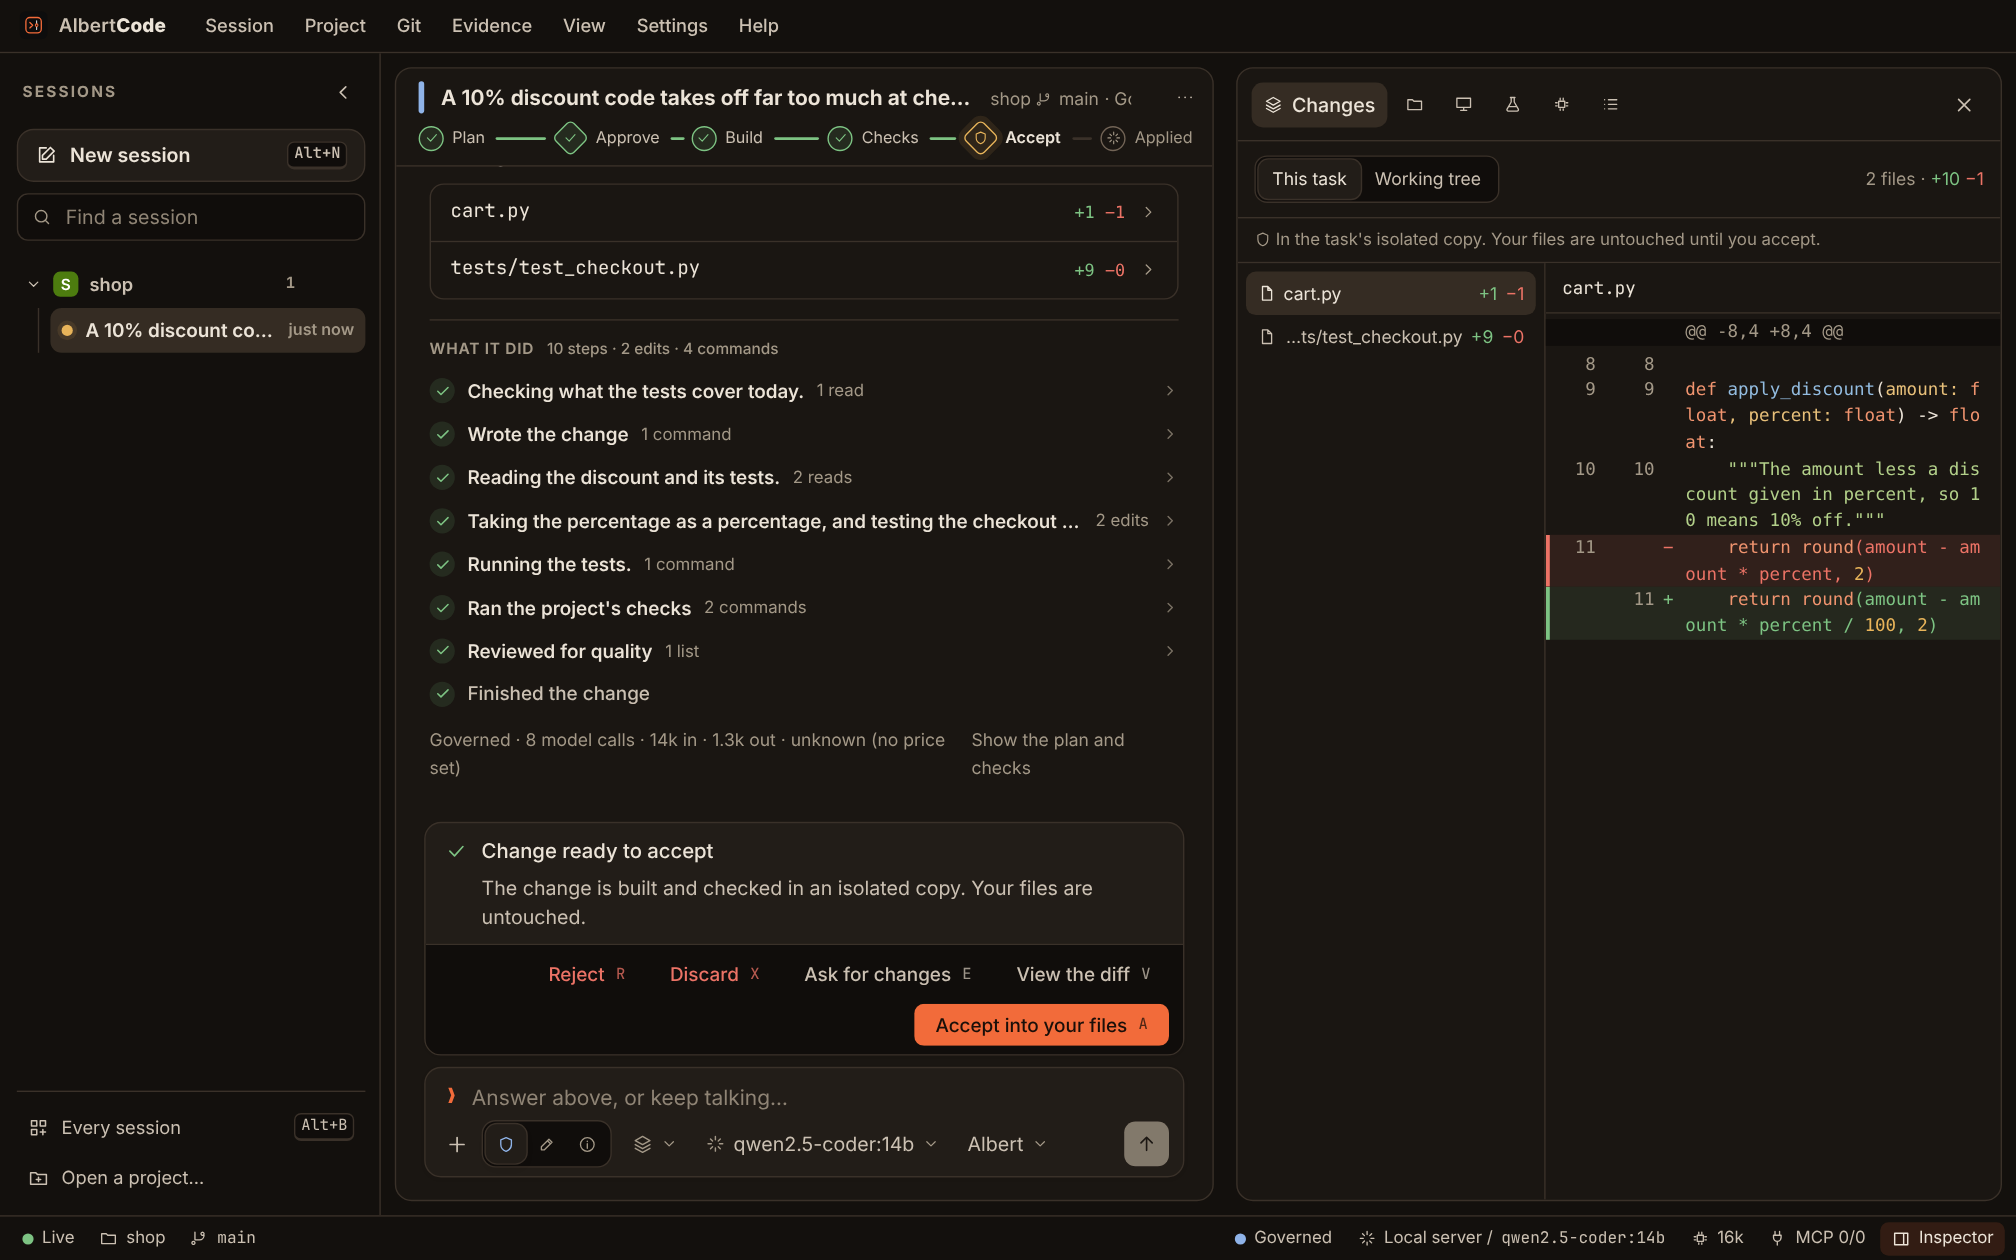
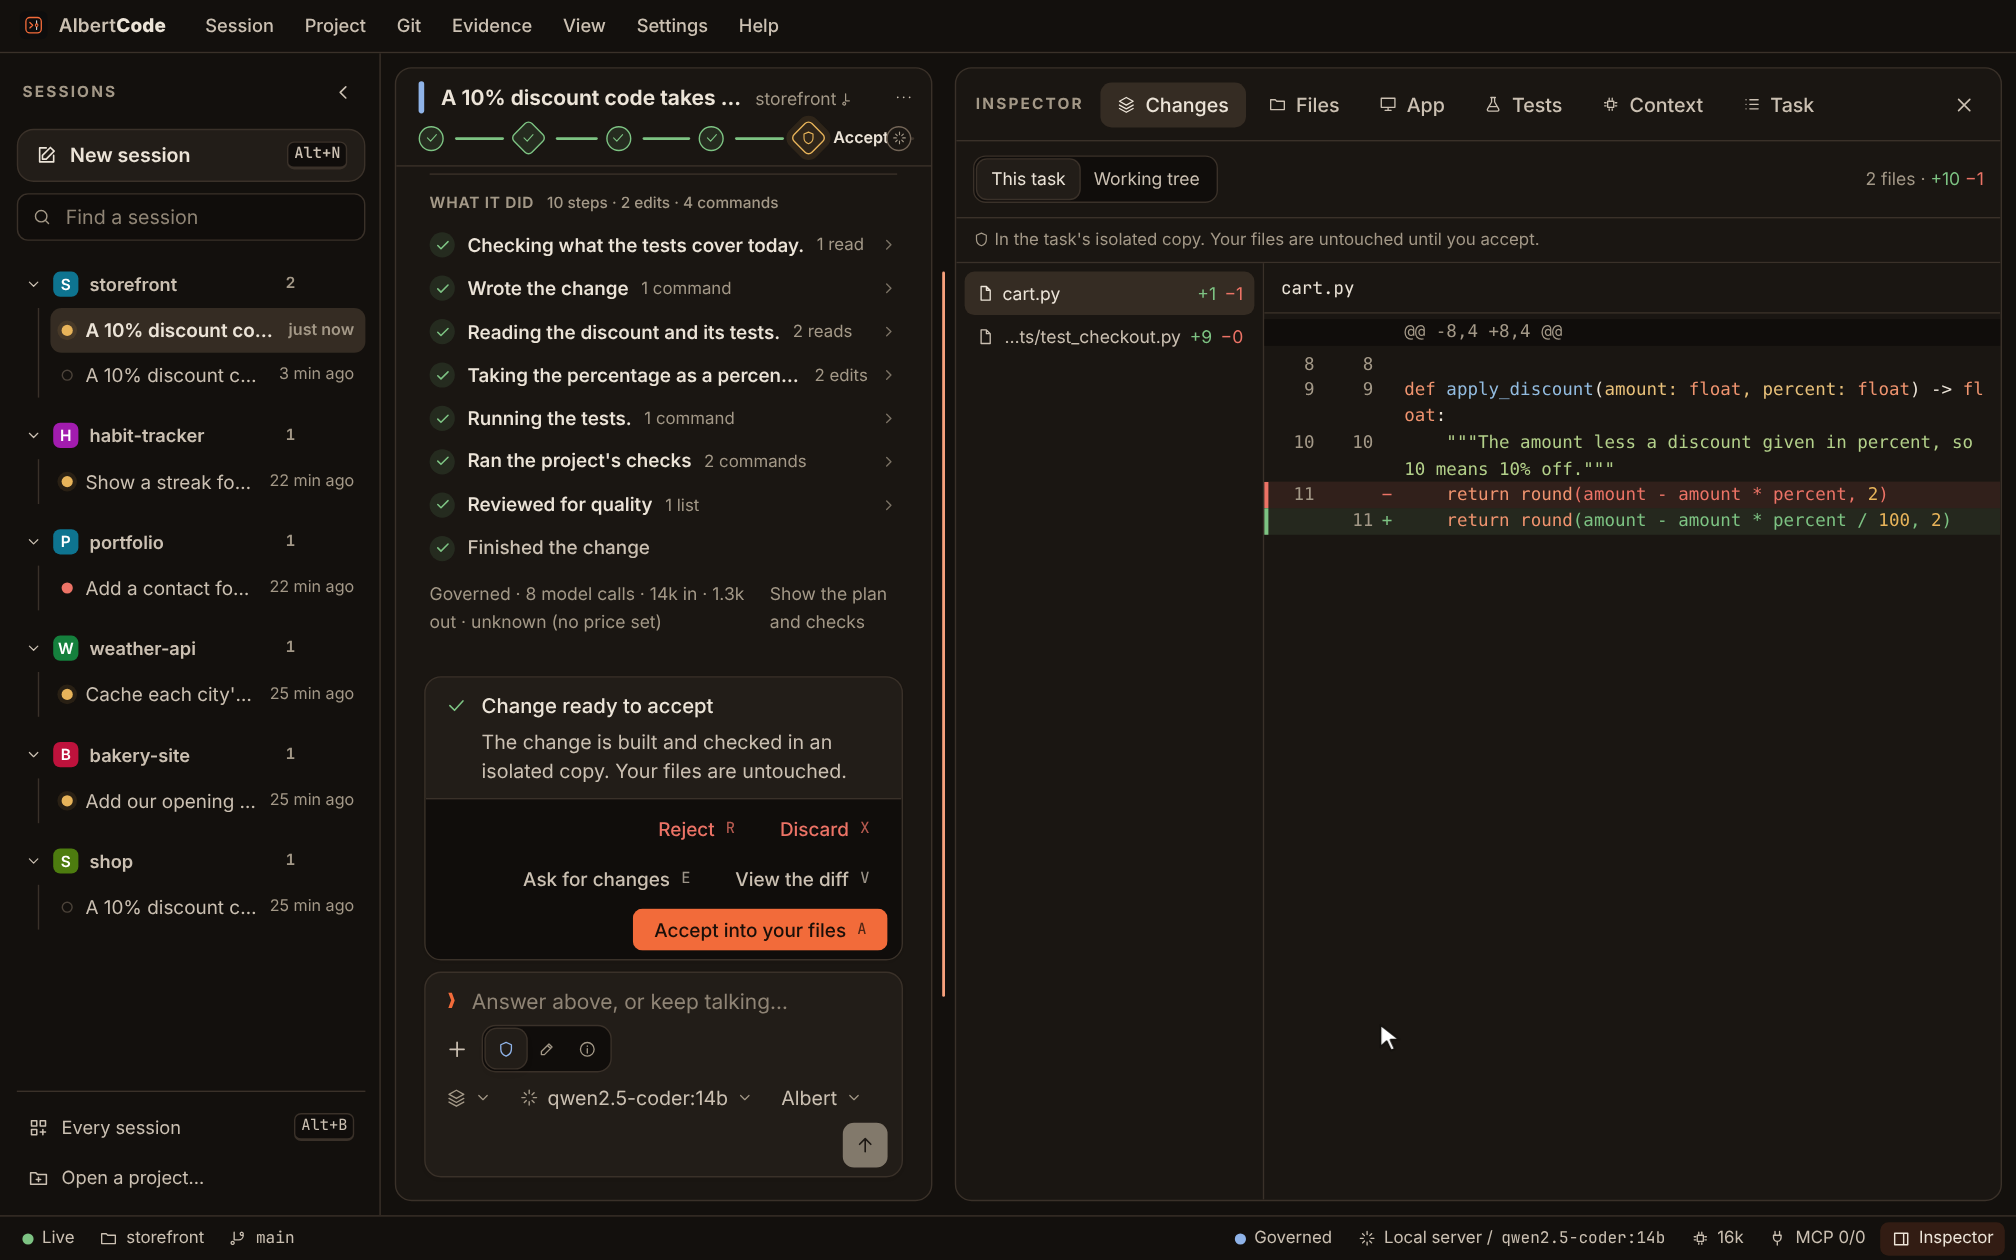
README: watch it work in the browser and the terminal, the agent at work, a wider diff
- Two recordings lead See it in action: a change made in the browser workspace, and the same in
  the terminal, from the request to the accepted change, in the Ember theme. They replace the old
  terminal walkthrough.
- The terminal row shows the agent at work, each step as it happens.
- The diff is retaken wider, with the new test and the fix side by side.
- No picture of the architecture dialog.

diff --git a/README.md b/README.md
@@ -280,6 +280,18 @@ One workspace, several projects, each at a different step: a plan waiting for yo
 finished change with its evidence, and the same tasks in the terminal. Every screen is from AlbertCode itself;
 the model's answers were scripted for these pictures.
 
+**Watch it work, in the browser**
+
+<img src="assets/demo/albertcode-browser.gif" alt="A recording of the browser workspace: a request to fix a discount bug is typed, AlbertCode reads the project and proposes a plan, the plan is approved, the agent builds and tests the change step by step in an isolated copy, the diff of cart.py and the new test is opened, and the change is accepted into the files." width="100%">
+
+<sub>Request, plan, build and test in an isolated copy, read the diff, accept. A little faster than life.</sub>
+
+**And in the terminal**
+
+<img src="assets/demo/albertcode-terminal.gif" alt="A recording of the terminal interface: the request is typed, the plan appears and is approved with one key, the agent works through its steps while the terminal shows each one, the change is ready with its test runs and reviews, its diff is read, and it is applied." width="100%">
+
+<sub>The same gates from the keyboard: approve, watch it work, read the diff, apply.</sub>
+
 <table>
 <tr>
 <td width="50%" valign="top">
@@ -306,7 +318,7 @@ the model's answers were scripted for these pictures.
 
 **3 · It shows you the exact diff**
 
-<img src="assets/readme/screen-diff.png" alt="The diff of the finished change in the inspector beside the conversation: the one-line fix in cart.py, with the new tests/test_checkout.py beside it, both still in the task's isolated copy." width="100%">
+<img src="assets/readme/screen-diff.png" alt="The diff of a finished change in the inspector, beside the conversation: the new tests/test_checkout.py and the one-line fix in cart.py, both still in the task's isolated copy, with the task ready to accept." width="100%">
 
 <sub>Built in an isolated copy of your repository, never in your working tree.</sub>
 
@@ -344,11 +356,11 @@ the model's answers were scripted for these pictures.
 <tr>
 <td width="50%" valign="top">
 
-**A plan, in the terminal**
+**The agent at work, in the terminal**
 
-<img src="assets/readme/screen-terminal-plan.png" alt="The weather-api plan in the terminal: the plan, its files, three steps, tests and risk, what it did to make it, and the choice to approve, revise, read the details or reject." width="100%">
+<img src="assets/readme/screen-terminal-working.png" alt="The agent at work in the terminal, in the cart-service project: implementation in progress, the steps done so far ticked off, and the one under way, editing cart.py, with the time it has taken." width="100%">
 
-<sub>Approve, revise or reject with one key.</sub>
+<sub>Every step as it happens, and Esc to stop it.</sub>
 
 </td>
 <td width="50%" valign="top">
@@ -363,16 +375,6 @@ the model's answers were scripted for these pictures.
 </tr>
 </table>
 
-<details>
-<summary><b>Watch the terminal walkthrough</b></summary>
-
-<br>
-
-<img src="assets/demo/albertcode-demo.gif" alt="The terminal interface, start to finish: a request is typed, AlbertCode reads the repository and proposes a plan, the plan is approved, the change is built in an isolated copy, tested and reviewed, and once accepted it is applied to the repository." width="100%">
-
-<sub>Recorded from <code>albertcode</code>, with the model's answers scripted to keep it short.</sub>
-
-</details>
 
 <br>
 
@@ -690,7 +692,6 @@ built with, where it lives, and how many routes, pages and data models it has; *
 opens to the files behind it, **How they connect** lists each connection and what shows it, and
 **Read it again** reads the repository afresh.
 
-<img src="assets/readme/screen-architecture.png" alt="The Architecture dialog in three columns: a Next.js app; a FastAPI server and Celery jobs; and what they rely on, NextAuth, Redis, PostgreSQL and Docker. Each card shows what the part is built with, where it lives, its routes, pages or models, and How it was found." width="100%">
 
 <br>
 

diff --git a/assets/README.md b/assets/README.md
@@ -8,7 +8,7 @@
 | `logo/glyph.svg` | The mark without its tile; its cursor takes the surrounding text colour |
 | `logo/favicon-32.png`, `logo/icon-180.png`, `logo/icon-512.png` | Favicon, touch icon, app icon |
 | `social/social-preview.png` | The repository's social preview, 1280×640 |
-| `demo/albertcode-demo.gif` | The README's terminal walkthrough, recorded from `albertcode` with the model's answers scripted; `demo/albertcode-demo-final.png` is its last frame |
+| `demo/albertcode-browser.gif`, `demo/albertcode-terminal.gif` | The README's recordings of a change made in the browser workspace and in the terminal, in the Ember theme, with the model's answers scripted |
 
 The mark is a terminal prompt (`>`) beside a cursor with a checkpoint on it, inside a rounded
 frame: the agent works, and stops for your approval.
